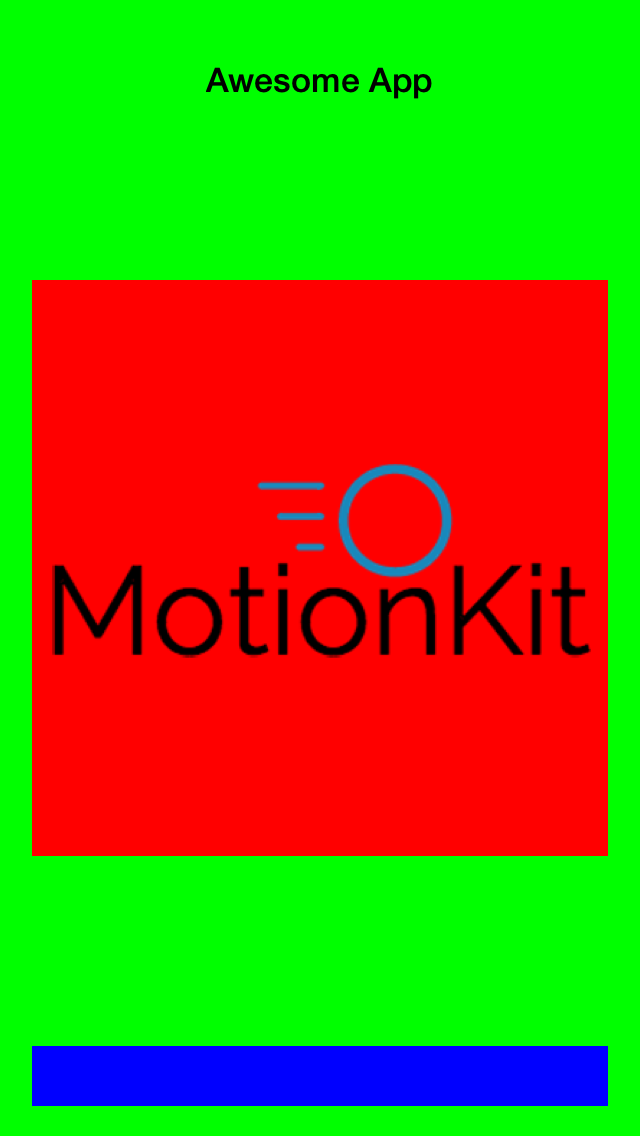
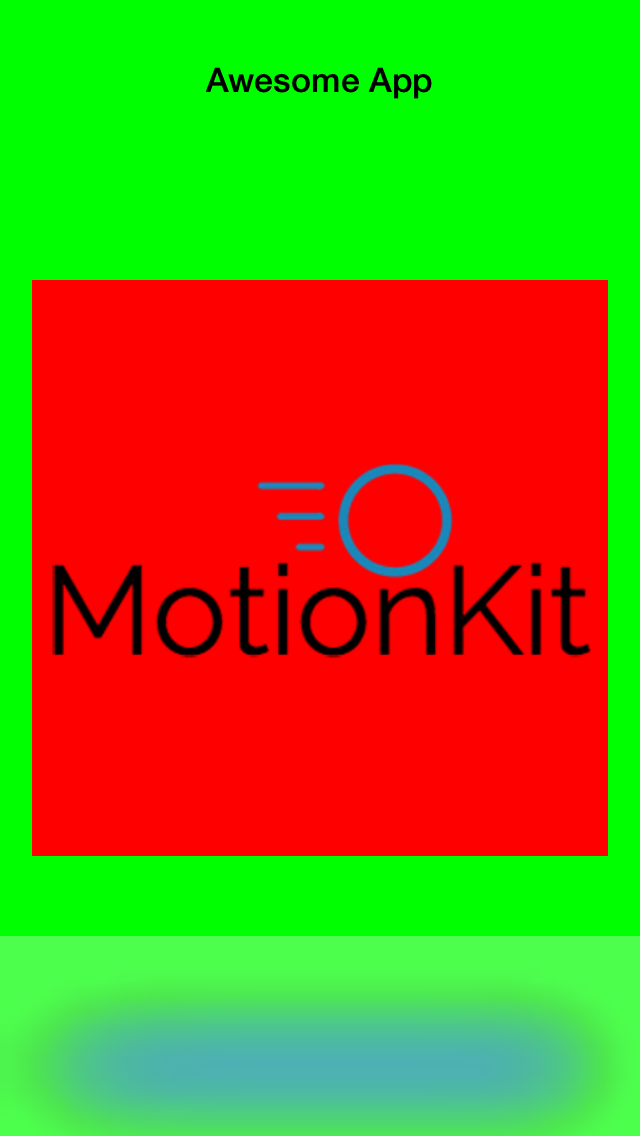
Put splash controller inside a window and take screenshot from there

Changed region(s): [[0.0, 0.8011, 1.0, 1.0]]

diff --git a/lib/motion-splash/generator.rb b/lib/motion-splash/generator.rb
@@ -1,50 +1,69 @@
 class MotionSplash
   class Generator
     def self.generate_all
-      config = Config.new
-      controller_class = Kernel.const_get(config.controller_class)
-      enabled_sizes(config).each do |size, scale|
-        puts "Generating image for #{size}@#{scale}x"
-        splash_controller = controller_class.alloc.initWithNibName(nil, bundle: nil)
-        splash_controller.view.frame = [[0, 0], size]
-
-        image = create_image_for(scale, splash_controller)
-        save_image(config, image, scale, size)
-      end
+      @config = Config.new
+      @current_index = 0
+      setup_next_size
     end
 
-    def self.save_image(config, img, scale, size)
+    def self.setup_next_size
+      exit if @current_index >= enabled_sizes.size
+      size, scale = enabled_sizes[@current_index]
+      setup_for(size, scale)
+    end
+
+    def self.setup_for(size, scale)
+      puts "Generating image for #{size}@#{scale}x"
+      controller_class = Kernel.const_get(@config.controller_class)
+      splash_controller = controller_class.alloc.initWithNibName(nil, bundle: nil)
+      splash_controller.generator = self
+
+      @window = UIWindow.alloc.initWithFrame([[0,0], size])
+      @window.rootViewController = splash_controller
+      @window.makeKeyAndVisible
+      splash_controller.view.frame = [[0, 0], size]
+    end
+
+    def self.take_image
+      size, scale = enabled_sizes[@current_index]
+      image = create_image_for(scale, @window)
+      save_image(image, scale, size)
+      @current_index += 1
+      setup_next_size
+    end
+
+    def self.save_image(img, scale, size)
       fileManager = NSFileManager.defaultManager
       image_data = UIImagePNGRepresentation(img)
-      image_name = name_for(config, scale, size)
-      image_name = "#{config.images_dir}/#{image_name}.png"
+      image_name = name_for(scale, size)
+      image_name = "#{@config.images_dir}/#{image_name}.png"
       fileManager.createFileAtPath(image_name, contents: image_data, attributes: nil)
     end
 
-    def self.create_image_for(scale, splash_controller)
-      UIGraphicsBeginImageContextWithOptions(splash_controller.view.bounds.size, true, scale)
-      splash_controller.view.layer.renderInContext(UIGraphicsGetCurrentContext())
+    def self.create_image_for(scale, view)
+      UIGraphicsBeginImageContextWithOptions(view.bounds.size, true, scale)
+      view.drawViewHierarchyInRect(view.bounds, afterScreenUpdates: true)
       img = UIGraphicsGetImageFromCurrentImageContext()
       UIGraphicsEndImageContext()
       img
     end
 
-    def self.enabled_sizes(config)
-      config.sizes.reject do |size, scale|
-        config.exclude_sizes.include?(size) ||
-            config.exclude_scales.include?(scale)
+    def self.enabled_sizes
+      @enabled_sizes ||= @config.sizes.reverse.reject do |size, scale|
+        @config.exclude_sizes.include?(size) ||
+            @config.exclude_scales.include?(scale)
       end
     end
 
-    def self.name_for(config, scale, size)
+    def self.name_for(scale, size)
       case scale.to_i
         when 2
           size_suffix = size.last == 480 ? "" : "-#{size.last.to_i}h"
-          "#{config.image_name}#{size_suffix}@2x"
+          "#{@config.image_name}#{size_suffix}@2x"
         when 3
-          "#{config.image_name}-#{size.last.to_i}h@3x"
+          "#{@config.image_name}-#{size.last.to_i}h@3x"
         else
-          config.image_name
+          @config.image_name
       end
     end
   end

diff --git a/samples/sample-1/app/layouts/splash_layout.rb b/samples/sample-1/app/layouts/splash_layout.rb
@@ -6,6 +6,7 @@ class SplashLayout < MK::Layout
         add UIImageView, :icon
       end
       add UIView, :bottom_box
+      add UIVisualEffectView, :blurry_box
     end
   end
 
@@ -45,9 +46,18 @@ class SplashLayout < MK::Layout
     constraints do
       center_x.equals(:superview)
       width.equals(:center_box)
-      height.equals(30)
-
+      height.equals(40)
       bottom.equals(:superview).minus(15)
+    end
+  end
+
+  def blurry_box_style
+    effect UIBlurEffect.effectWithStyle(UIBlurEffectStyleLight)
+    constraints do
+      center_x.equals(:bottom_box)
+      width.equals(:superview)
+      height.equals(:bottom_box).plus(60)
+      bottom.equals(:superview)
     end
   end
 end

diff --git a/samples/sample-1/app/splash_view_controller.rb b/samples/sample-1/app/splash_view_controller.rb
@@ -1,6 +1,13 @@
 class SplashController < UIViewController
+  attr_accessor :generator
+
   def loadView
     @layout = SplashLayout.new
     self.view = @layout.view
+  end
+
+  def viewDidAppear(animated)
+    super
+    @generator.take_image
   end
 end

diff --git a/lib/motion-splash/splash_app_delegate.rb b/lib/motion-splash/splash_app_delegate.rb
@@ -1,7 +1,6 @@
 class AppDelegate
   def application(application, didFinishLaunchingWithOptions:launchOptions)
     MotionSplash::Generator.generate_all
-    exit
     true
   end
 end
